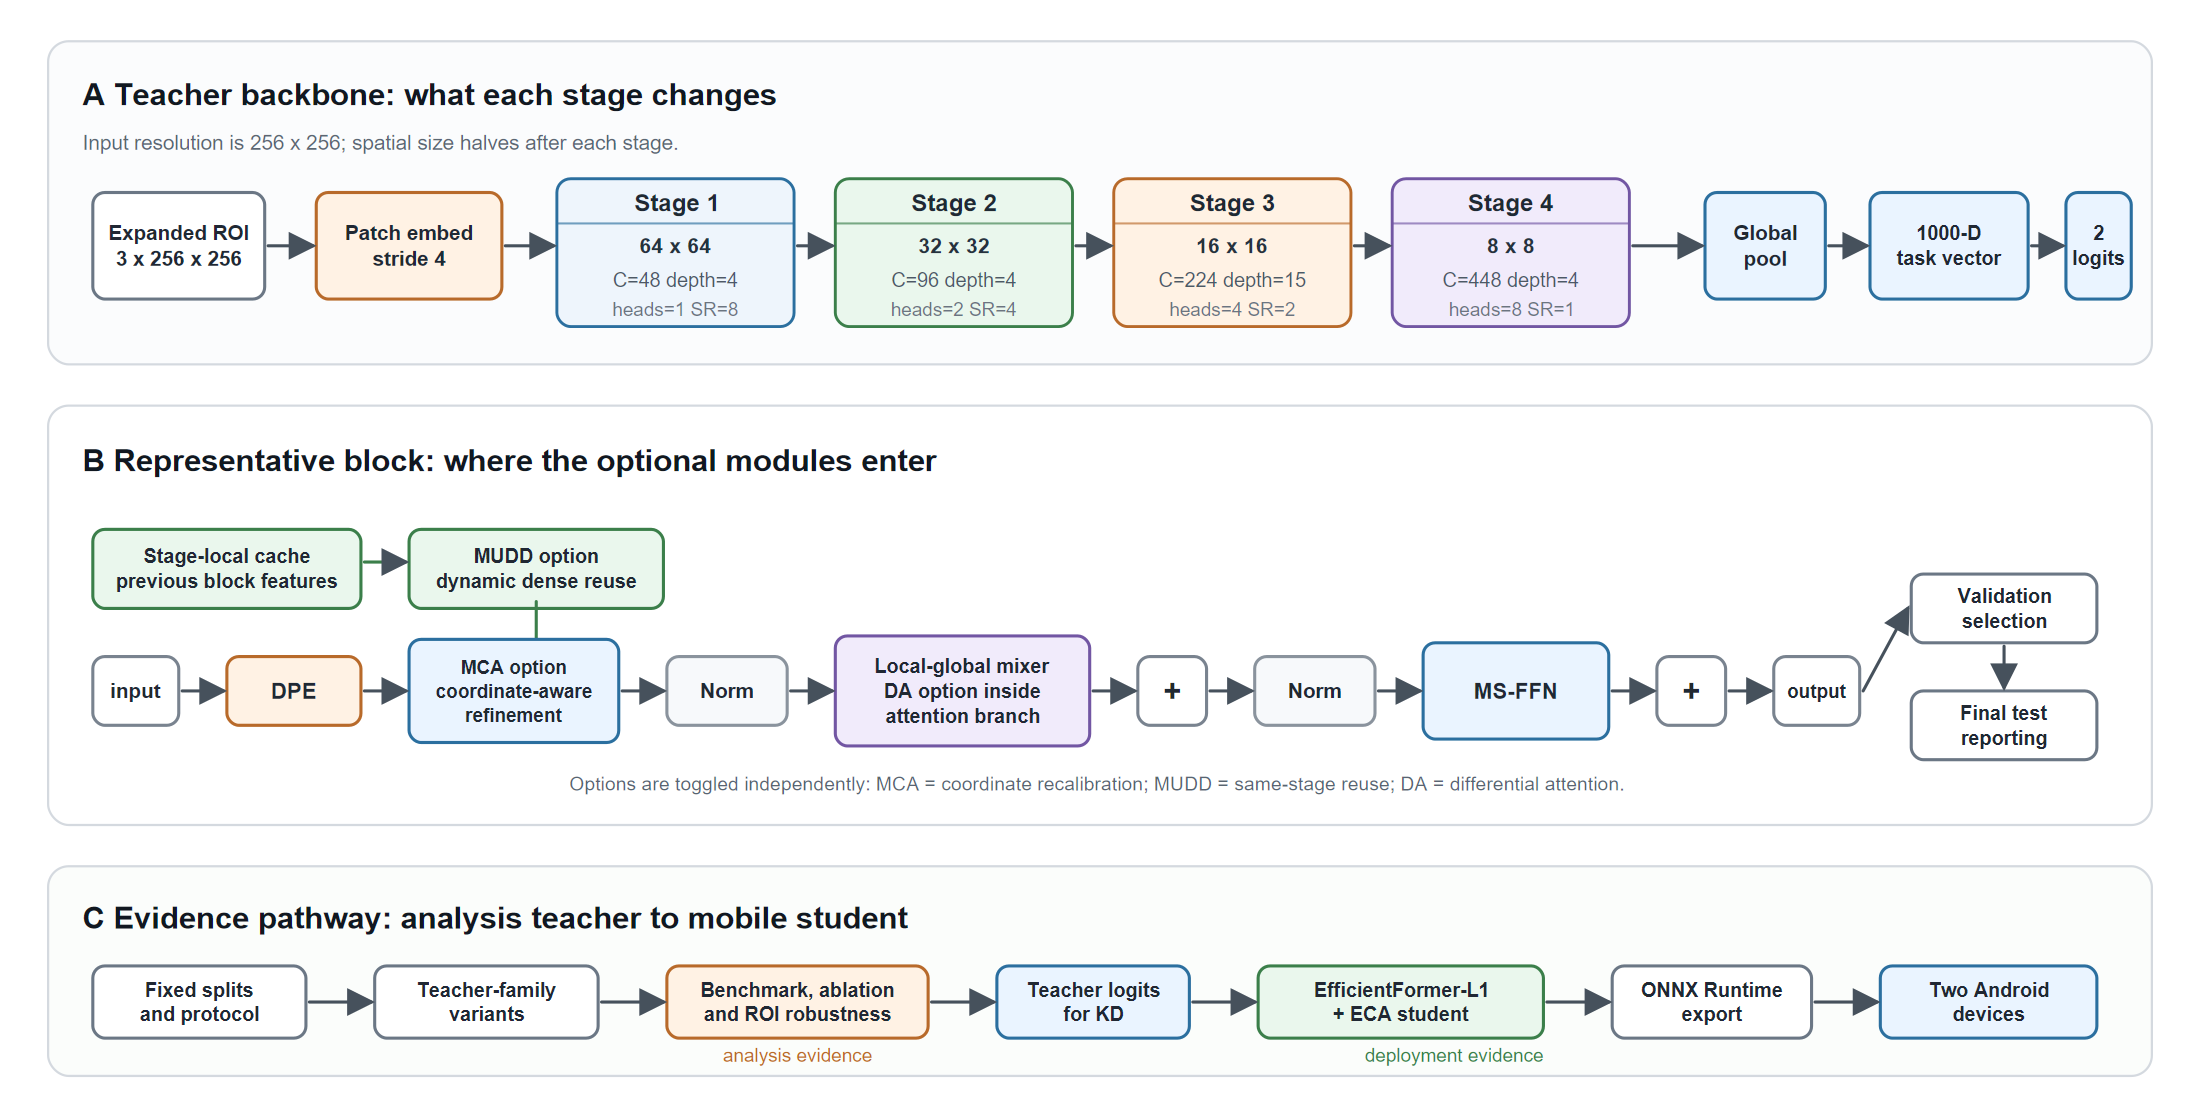
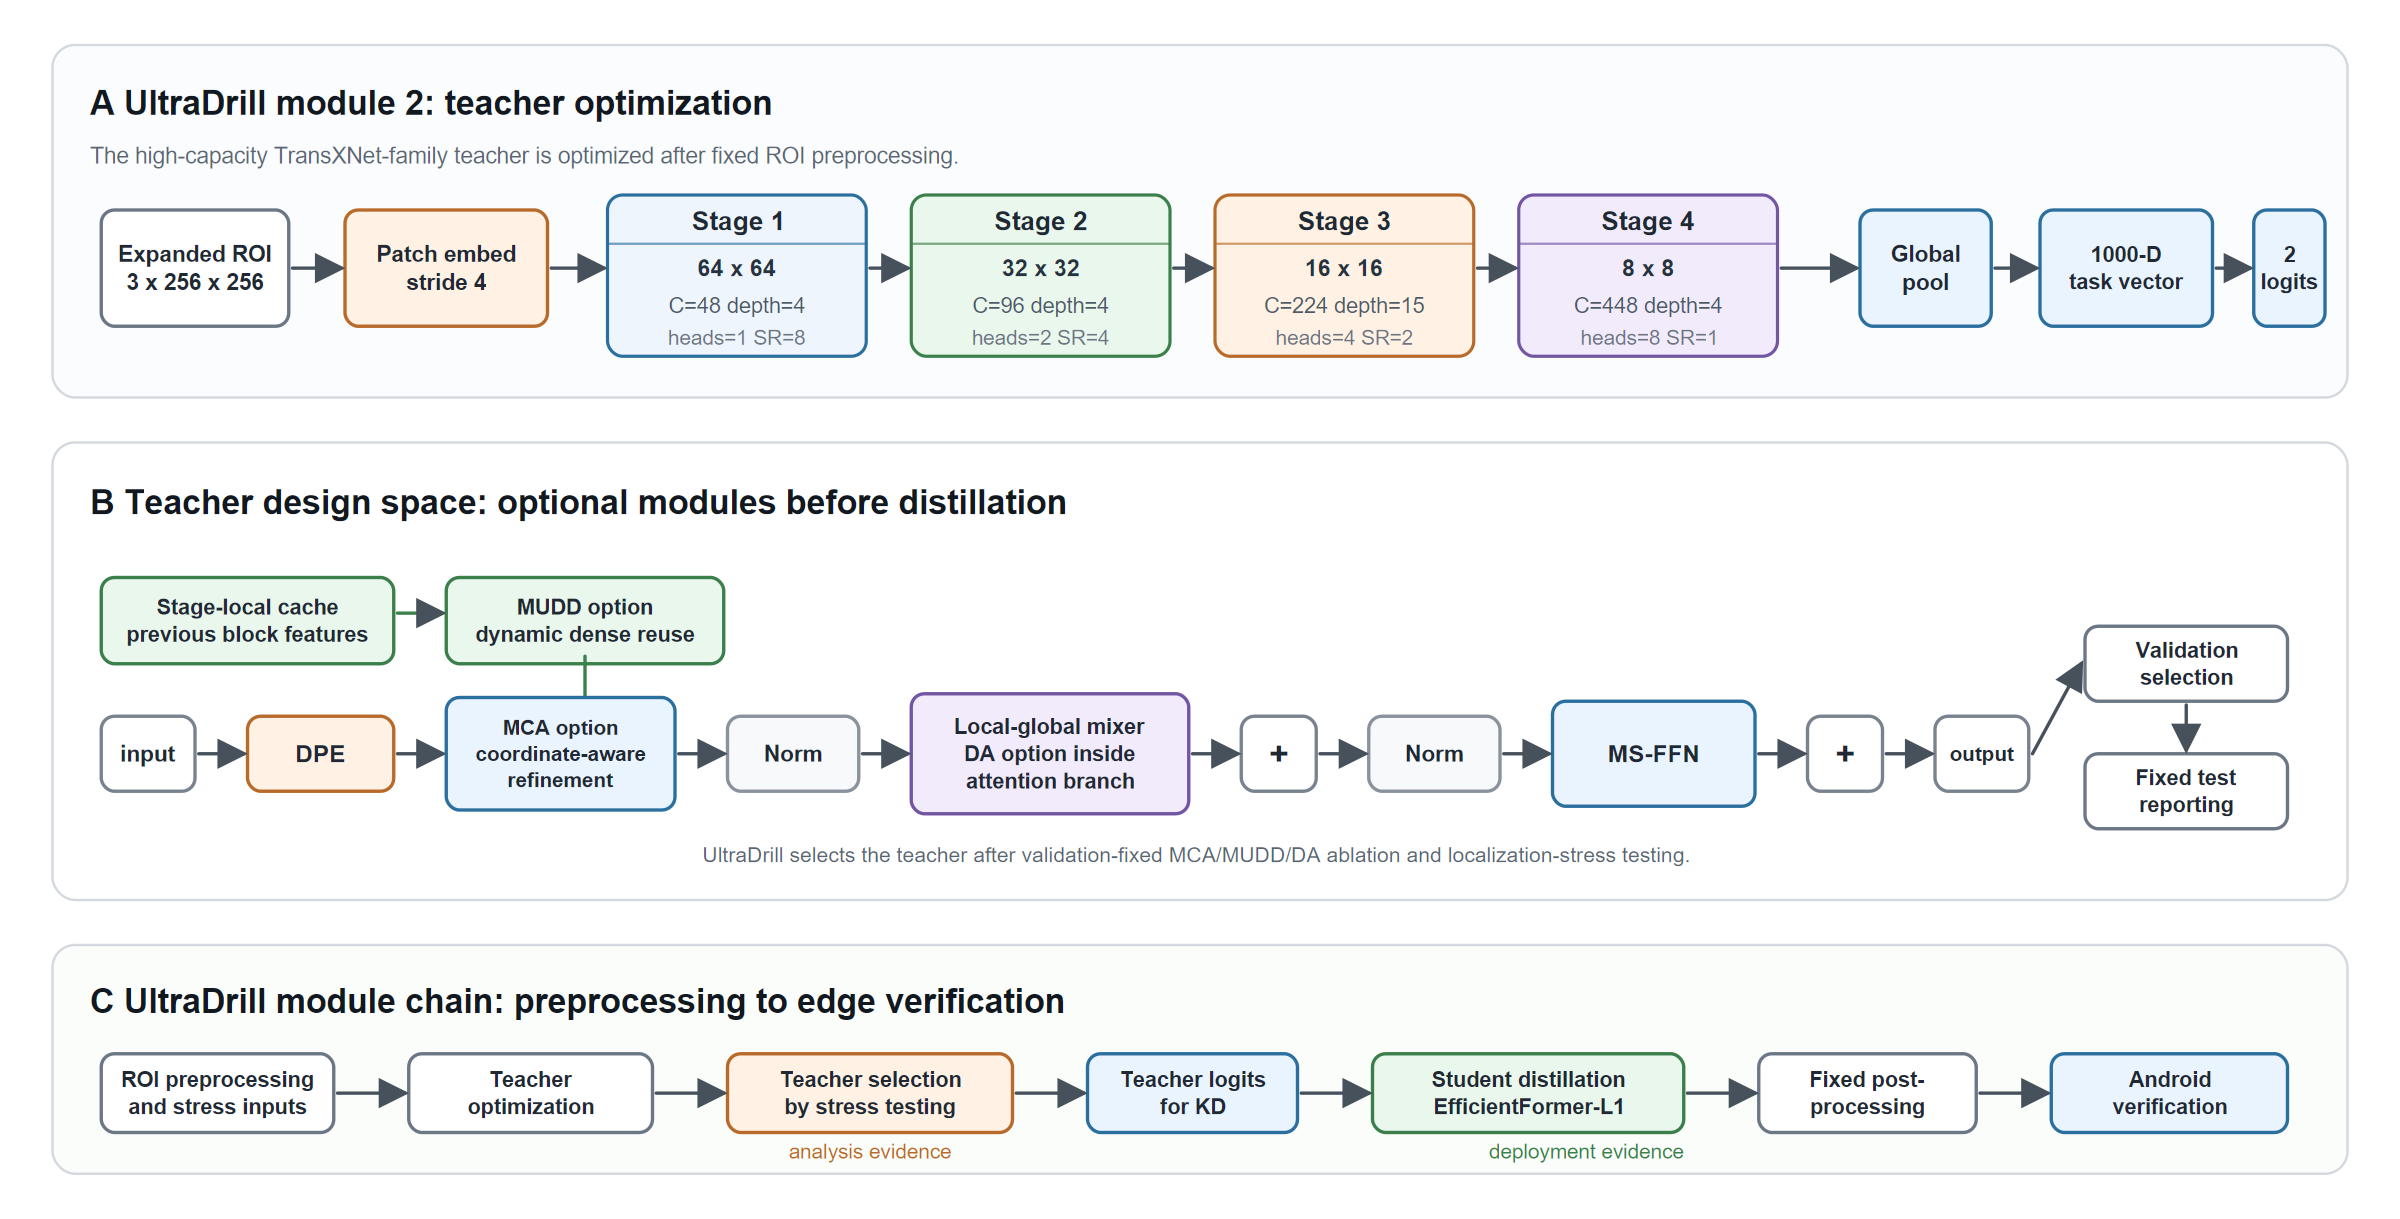
Tighten UltraDrill framework presentation

diff --git a/tools/make_clean_submission_figures.py b/tools/make_clean_submission_figures.py
@@ -133,10 +133,10 @@ def architecture() -> None:
     purple, purple_fill = "#7256a3", "#f1ebfb"
     gray_fill, panel_fill = "#f7f9fb", "#fbfcfd"
 
-    # A. Teacher backbone.
+    # A. Teacher optimization module.
     rect(28, 24, 1224, 188, fill=panel_fill, stroke="#d4d9df", sw=1.3, rx=12)
-    title(48, 55, "A", "Teacher backbone: what each stage changes")
-    text(48, 83, "Input resolution is 256 x 256; spatial size halves after each stage.", size=12, color="#5b6672", anchor="start")
+    title(48, 55, "A", "UltraDrill module 2: teacher optimization")
+    text(48, 83, "The high-capacity TransXNet-family teacher is optimized after fixed ROI preprocessing.", size=12, color="#5b6672", anchor="start")
 
     def stage_box(x, y, label, resolution, channels, depth, heads, sr, fill, stroke):
         rect(x, y, 138, 86, fill=fill, stroke=stroke, sw=1.7, rx=8)
@@ -159,9 +159,9 @@ def architecture() -> None:
     for x1, x2 in [(156, 182), (294, 322), (464, 484), (626, 646), (788, 808), (950, 990), (1064, 1086), (1182, 1200)]:
         line(x1, 143, x2, 143)
 
-    # B. Block-level options.
+    # B. Teacher design-space options.
     rect(28, 236, 1224, 244, fill="#ffffff", stroke="#d4d9df", sw=1.3, rx=12)
-    title(48, 268, "B", "Representative block: where the optional modules enter")
+    title(48, 268, "B", "Teacher design space: optional modules before distillation")
     by = 382
 
     # Stage-local memory is drawn above the main path so arrows do not cross the block sequence.
@@ -191,20 +191,20 @@ def architecture() -> None:
     box(1112, by + 20, 108, 40, ["Fixed test", "reporting"], fill="#ffffff", stroke="#6b7785", size=11.5, weight=700)
     line(1084, by + 20, 1110, by - 28)
     line(1166, by - 6, 1166, by + 18)
-    text(638, 456, "Options are toggled independently: MCA = coordinate recalibration; MUDD = same-stage reuse; DA = differential attention.", size=11.3, color="#596571")
+    text(638, 456, "UltraDrill selects the teacher after validation-fixed MCA/MUDD/DA ablation and localization-stress testing.", size=11.3, color="#596571")
 
-    # C. Evaluation and deployment path.
+    # C. UltraDrill framework chain.
     rect(28, 504, 1224, 122, fill="#fbfdfb", stroke="#d4d9df", sw=1.3, rx=12)
-    title(48, 534, "C", "Evidence pathway: analysis teacher to mobile student")
+    title(48, 534, "C", "UltraDrill module chain: preprocessing to edge verification")
     cy = 562
     path_boxes = [
-        (54, cy, 124, 42, ["Frozen manifest", "and labels"], "#ffffff", "#6b7785", 11.5, 600),
-        (218, cy, 130, 42, ["Teacher-family", "variants"], "#ffffff", "#6b7785", 11.5, 600),
-        (388, cy, 152, 42, ["Benchmark, ablation", "and ROI robustness"], orange_fill, orange, 11.5, 600),
+        (54, cy, 124, 42, ["ROI preprocessing", "and stress inputs"], "#ffffff", "#6b7785", 11.5, 600),
+        (218, cy, 130, 42, ["Teacher", "optimization"], "#ffffff", "#6b7785", 11.5, 600),
+        (388, cy, 152, 42, ["Teacher selection", "by stress testing"], orange_fill, orange, 11.5, 600),
         (580, cy, 112, 42, ["Teacher logits", "for KD"], blue_fill, blue, 11.5, 600),
-        (732, cy, 166, 42, ["EfficientFormer-L1", "+ ECA student"], green_fill, green, 11.5, 700),
-        (938, cy, 116, 42, ["ONNX Runtime", "export"], "#ffffff", "#6b7785", 11.5, 600),
-        (1094, cy, 126, 42, ["Two Android", "devices"], blue_fill, blue, 11.5, 700),
+        (732, cy, 166, 42, ["Student distillation", "EfficientFormer-L1"], green_fill, green, 11.5, 700),
+        (938, cy, 116, 42, ["Fixed post-", "processing"], "#ffffff", "#6b7785", 11.5, 600),
+        (1094, cy, 126, 42, ["Android", "verification"], blue_fill, blue, 11.5, 700),
     ]
     for bx, by0, bw, bh, label, fill, stroke, size, weight in path_boxes:
         box(bx, by0, bw, bh, label, fill=fill, stroke=stroke, size=size, weight=weight)

diff --git a/paper/main.tex b/paper/main.tex
@@ -394,15 +394,15 @@ The central result is not that one backbone is uniformly best. It is that UltraD
 
 The factorial ablation also changes the interpretation of the modules. MUDD and differential attention provide the most reliable TN5000 teacher gain. MCA is not a universal AUC booster, even though it may still help some operating points and datasets. We therefore treat the TransXNet-family model as a teacher design space, not as a monotonic sequence where every added module improves every metric. This distinction is important for the paper's claim: the teacher is selected for analysis and distillation, not presented as a universally superior backbone.
 
-The teacher-student localization-stress table is the strongest practical evidence in the current package. The MUDD+DA teacher gives the best clean-ROI AUC in the robustness block, but the distilled EfficientFormer-L1 students show smaller AUC degradation under 20\% synthetic box noise and detector-derived boxes. This does not prove that students are inherently more robust; lower-capacity models can also be less sensitive to crop perturbations because they rely on coarser features. The relevant finding is narrower and stronger: distillation did not amplify localization sensitivity, and the exported student remains close to the teacher under detector-derived ROI inputs. Full-image AUC remains much lower than ROI-based AUC, so the workflow still requires a lesion-localization step.
+The matched teacher-student localization-stress comparison is the strongest practical evidence for UltraDrill. The MUDD+DA teacher gives the best clean-ROI AUC in the robustness block, but the distilled EfficientFormer-L1 students show smaller AUC degradation under 20\% synthetic box noise and detector-derived boxes. This does not prove that students are inherently more robust; lower-capacity models can also be less sensitive to crop perturbations because they rely on coarser features. The relevant finding is narrower and stronger: distillation did not amplify localization sensitivity, and the exported student remains close to the teacher under detector-derived ROI inputs. Full-image AUC remains much lower than ROI-based AUC, so the framework still requires a lesion-localization step.
 
-The Android experiment then completes the pipeline rather than serving as a separate demo. The student selected by accuracy, robustness, and exportability reaches 0.9552 Android AUC with 31.3/56.5 ms hot latency on the Xiaomi phone and Samsung tablet. Runtime profile sweeps showed that CPU execution was faster than XNNPACK and NNAPI for the exported EfficientFormer-L1+ECA+KD artifact on both devices. This reinforces the reason to separate teacher and student roles: a teacher can be valuable for robust representation analysis without being the right endpoint for mobile inference.
+The Android experiment then completes the UltraDrill framework rather than serving as a separate demo. The student selected by accuracy, robustness, and exportability reaches 0.9552 Android AUC with 31.3/56.5 ms hot latency on the Xiaomi phone and Samsung tablet. Runtime profile sweeps showed that CPU execution was faster than XNNPACK and NNAPI for the exported EfficientFormer-L1+ECA+KD artifact on both devices. This reinforces the reason to separate teacher and student roles: a teacher can be valuable for robust representation analysis without being the right endpoint for mobile inference.
 
 The multi-organ results define a second boundary. BUSI and AUL are useful public in-domain benchmarks from different organs, but LODO performance remains weak. The framework should therefore be read as a mobile ROI-classification workflow evaluated across multiple public datasets, not as a universal cross-organ ultrasound classifier. Calibration remains a separate constraint from discrimination: the current manuscript focuses on discrimination, localization robustness, and Android latency, while probability outputs and operating thresholds require site-specific validation before clinical use.
 
 \subsection*{Limitations}
 
-This study has several limitations. First, all datasets are retrospective public datasets, and the label definitions and acquisition conditions are not fully harmonized. The BUSI audit identifies exact and perceptual duplicate candidates, including label-conflict candidates, so BUSI results should be interpreted as public-benchmark comparability rather than a cleaned patient-level clinical estimate. Second, annotation-derived ROI crops remain the primary classifier protocol; detector-derived crops and box perturbations mitigate but do not eliminate this dependency. Third, BUSI and AUL are primarily dataset-specific benchmarks, not evidence of thyroid-to-breast or thyroid-to-liver external generalization. Fourth, mobile feasibility is measured on two Android devices and should be interpreted as prototype evidence until broader chipsets, delegates, and thermal states are measured. Fifth, probability calibration and site-specific operating thresholds require further per-case validation under the same fixed reporting discipline used for the discrimination results. Sixth, the module-level changes are adaptations of existing ideas; the contribution is the systematic ROI-ultrasound evaluation, robustness analysis, and deployment-oriented teacher-student path.
+This study has several limitations. First, all datasets are retrospective public datasets, and the label definitions and acquisition conditions are not fully harmonized. The BUSI audit identifies exact and perceptual duplicate candidates, including label-conflict candidates, so BUSI results should be interpreted as public-benchmark comparability rather than a cleaned patient-level clinical estimate. Second, annotation-derived ROI crops remain the primary classifier protocol; detector-derived crops and box perturbations mitigate but do not eliminate this dependency. Third, BUSI and AUL are primarily dataset-specific benchmarks, not evidence of thyroid-to-breast or thyroid-to-liver external generalization. Fourth, mobile feasibility is measured on two Android devices and should be interpreted as prototype evidence until broader chipsets, delegates, and thermal states are measured. Fifth, probability calibration and site-specific operating thresholds require further per-case validation under the same fixed reporting discipline used for the discrimination results. Sixth, the module-level changes are adaptations of existing ideas; the contribution is the systematic UltraDrill framework that links ROI preprocessing, robustness-aware teacher optimization, student distillation, and edge verification.
 
 \section{Conclusions}
 \label{sec:conclusion}
@@ -411,6 +411,7 @@ We presented UltraDrill, a distillation and optimization framework for edge ultr
 
 \section*{CRediT authorship contribution statement}
 Zihan Li: Conceptualization, Methodology, Software, Validation, Formal analysis, Investigation, Data curation, Visualization, Writing -- original draft. \\
+Hongyu Wei: Clinical interpretation, Medical domain review, Validation, Writing -- review and editing. \\
 Cong Yang: Conceptualization, Supervision, Resources, Project administration, Writing -- review and editing.
 
 \section*{Ethics statement}